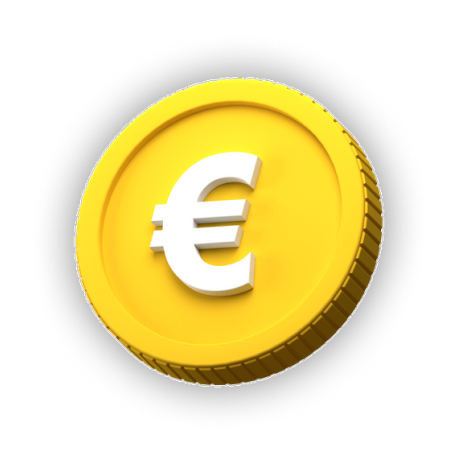
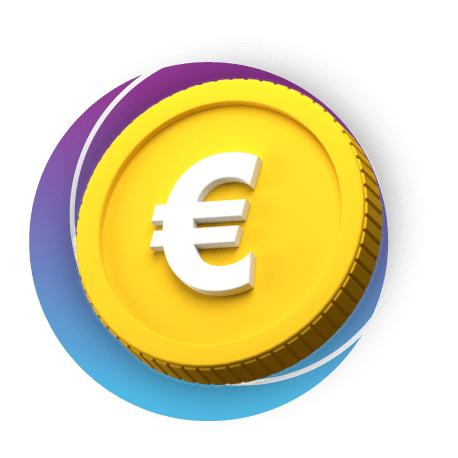
ddd

Changed region(s): [[0.0611, 0.1223, 0.8559, 0.917], [0.7948, 0.3362, 0.8253, 0.3974]]

diff --git a/src/components/Team/Team.js b/src/components/Team/Team.js
@@ -4,10 +4,17 @@ import Team1 from '../../assets/team/team-1.png'
 import Team2 from '../../assets/team/team-2.png'
 import Team3 from '../../assets/team/team-3.png'
 import Team4 from '../../assets/team/team-4.png'
+import Dollar from '../../assets/elements/team2.png'
 
 function Team() {
   return (
     <section className='team'>
+        <div className="dollar-win">
+        
+        
+        <img src={Dollar} alt="way" className="dollar-lines"/>
+        <div className='dollar-line'>&nbsp;</div>
+      </div>
        <div class="container justify-content-center text-center">
         <h1 className="header-h1">
           TE<span className="head-span">AM</span>

diff --git a/src/components/tokenomic/Benifit.js b/src/components/tokenomic/Benifit.js
@@ -4,6 +4,7 @@ import Toko2 from "../../assets/elements/toko-2.png";
 import Div from "../../assets/elements/div.png";
 import Pie from "../../assets/pie.svg";
 import "./Tokenomic.css";
+import Dollar from '../../assets/elements/alloc.png'
 
 function Benifit() {
   return (
@@ -32,6 +33,12 @@ function Benifit() {
           </div>
         </div>
       </div>
+      <div className="dollar-win">
+        
+        
+          <img src={Dollar} alt="way" className="dollar-lines"/>
+          <div className='dollar-line'>&nbsp;</div>
+        </div>
       <div class="container">
         <div className="head text-center">
           <h1 className="header-ben-h2">

diff --git a/src/components/tokenomic/Tokenomic.js b/src/components/tokenomic/Tokenomic.js
@@ -1,6 +1,6 @@
 import React from "react";
 import "./Tokenomic.css";
-import Box from "../../assets/box.png";
+import Box from "../../assets/coin.png";
 
 function Tokenomic() {
   return (
@@ -13,7 +13,7 @@ function Tokenomic() {
       <div class="container">
         <div class="row justify-content-center align-items-center g-2 afun-toko">
           <div class="col-md-6">
-            <div>
+            <div className="text-center">
               <img src={Box} alt="" className="img-toko" />
             </div>
           </div>

diff --git a/src/components/Features/Play.css b/src/components/Features/Play.css
@@ -77,7 +77,7 @@ color: #FFFFFF;
 }
 .dollar-lines{
     transform: rotate(2.03deg);
-    width: 99.8%;
+    width: 99.6%;
 }
 .dollar-win{
     padding-top: 8%;

diff --git a/src/components/tokenomic/Tokenomic.css b/src/components/tokenomic/Tokenomic.css
@@ -3,7 +3,7 @@
 }
 
 .img-toko {
-  height: 236px;
+  height: auto;
   width: 60%;
 }
 
